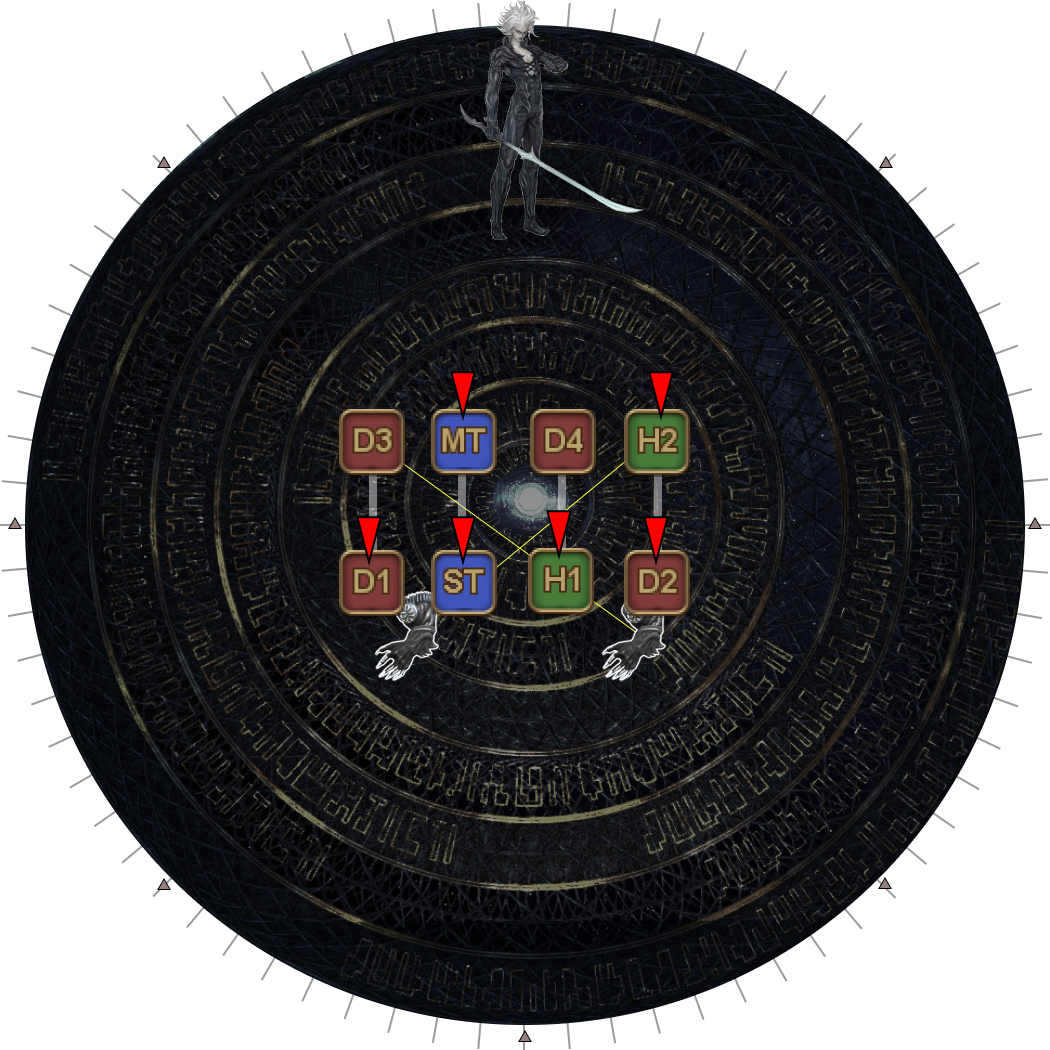
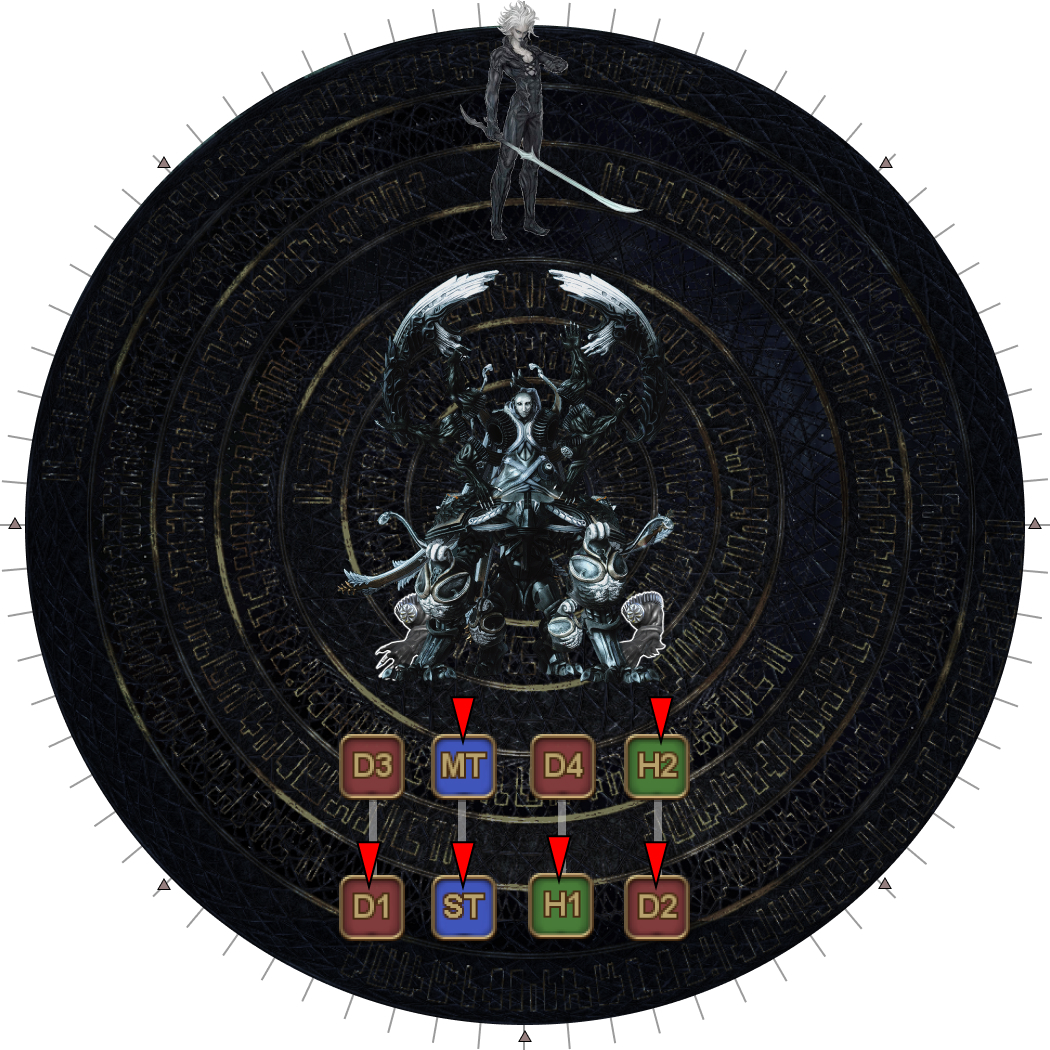
Simplify Sigma strat

Changed region(s): [[0.3048, 0.2438, 0.6705, 0.9143]]

diff --git a/ultimates/top/en/05_run_dynamis.md b/ultimates/top/en/05_run_dynamis.md
@@ -127,22 +127,20 @@ The first part is rather unusual, but it means that resolving the towers can be 
 
 <table>
   <tr>
-    <td width="50%"><p><b>1.</b> Two arms will spawn, followed by an Omega-M clone.</p>
-    <p><b>Use the Omega-M clone as North</b>. The two hands will always spawn south-west, and south-east.</p>
-    <p>Line up in two rows of four.</p><p>If your row has duplicate Playstation symbols, the <b>right-most</b> player swaps.</p><p><em>(Equivalently, if your tether is going to the left, swap groups.)</em></p><p><em>In this example, the ST and D3 will swap groups.</em></p></td>
-    <td><img src="../images/05_run_dynamis/run_dynamis_sigma_01.jpg"></td>
-  </tr>
-  <tr>
-    <td><p><b>2.</b> Arrange each row in order:</p><ul><li><b>Left:</b> 〇 > × > △ > □ <b>:Right</b></li></ul><p><em>(All tethers should now be vertical)</em></p></td>
+    <td width="50%"><p><b>1.</b> Two arms will spawn. Line up in two rows of four.</p>
+      <ul>
+        <li><b>Left:</b> 〇 > × > △ > □ <b>:Right</b></li>
+      </ul>
+      <p><em>(All tethers should be vertical)</em></p></td>
     <td><img src="../images/05_run_dynamis/run_dynamis_sigma_02.jpg"></td>
   </tr>
   <tr>
-    <td><p><b>3.</b> Six random players get marked, with each tether pair getting at least one marker.</p>
-    <p>If your pair only has one marker, swap if needed to have the <b>non-marker</b> player north (away from the hands).</p><p><em>(In this example, H1 and D4 swapped rows.)</em></p></td>
+    <td><p><b>2.</b> Six random players get marked, with each tether pair getting at least one marker.</p>
+    <p>If your pair only has one marker, swap if needed to have the <b>non-marker</b> player towards the hands.</p><p><em>(In this example, H1 and D4 swapped rows.)</em></p></td>
     <td><img src="../images/05_run_dynamis/run_dynamis_sigma_03.jpg"></td>
   </tr>
   <tr>
-    <td><p><b>4.</b> The top row takes up their positions at the edge of the arena.</p>
+    <td><p><b>3.</b> The top row takes up their positions at the edge of the arena.</p>
     <p><em>All these positions will be between two markers.</em></p>
     <ul>
       <li>The <b>left-most</b> player <b>without a marker</b> goes NNW.</li>
@@ -157,25 +155,26 @@ The first part is rather unusual, but it means that resolving the towers can be 
 With the top row in position, the bottom row now takes up their positions, depending on whether the debuff is Remote, or Mid Glitch.
 
 - The bottom row will **always** go to the opposite E/W side as their tether partner
-- The bottom row may share the same N/S half as their tether partner, depending on whether the party has Mid Glitch (same N/S) or Remote Glitch (opposite N/S).
+  - i.e: if you're in the left tether pair, you will go right (and vice versa).
+- The bottom row will go N/S, depending on whether the party has Mid or Remote Glitch.
 
 ### Remote Glitch
 
 <table>
   <tr>
-    <td width="50%"><p><b>5a.</b> The bottom row takes up their positions <b>opposite</b> their tether partner.</p><p><em>The players at the north side (at the WNW and ENE sectors) are far enough to resolve Remote Glitch, but not so far that they steal the tethers from the arms.</em></p></td>
+    <td width="50%"><p><b>4a.</b> The bottom row takes up their positions <b>opposite</b> their tether partner.</p><p><em>The players at the north side (at the WNW and ENE sectors) are far enough to resolve Remote Glitch, but not so far that they steal the tethers from the arms.</em></p></td>
     <td><img src="../images/05_run_dynamis/run_dynamis_sigma_05a.jpg"></td>
   </tr>
   <tr>
-    <td><p><b>6a.</b> Lasers and Wave Cannons resolve.</p></td>
+    <td><p><b>5a.</b> Lasers and Wave Cannons resolve.</p></td>
     <td><img src="../images/05_run_dynamis/run_dynamis_sigma_06a.jpg"></td>
   </tr>
   <tr>
-    <td><p><b>7a.</b> Move into the center as Omega-F will teleport into the middle and knockback all players into their towers.</p></td>
+    <td><p><b>6a.</b> Move into the center as Omega-F will teleport into the middle and knockback all players into their towers.</p></td>
     <td><img src="../images/05_run_dynamis/run_dynamis_sigma_07a.jpg"></td>
   </tr>
   <tr>
-    <td><p><b>8a.</b> The tower rules are as such:</p><ol><li>Get knocked back to the <b>nearest</b> tower from you.</li><li>If there are two towers next to you, choose the tower that requires two players (these will be the two towers closest to the N/S poles).</li></ol></td>
+    <td><p><b>7a.</b> The tower rules are as such:</p><ol><li>Get knocked back to the <b>nearest</b> tower from you.</li><li>If there are two towers next to you, choose the tower that requires two players (these will be the two towers closest to the N/S poles).</li></ol></td>
     <td><img src="../images/05_run_dynamis/run_dynamis_sigma_08a.jpg"><img src="../images/05_run_dynamis/run_dynamis_sigma_09a.jpg"></td>
   </tr>
 </table>
@@ -184,19 +183,19 @@ With the top row in position, the bottom row now takes up their positions, depen
 
 <table>
   <tr>
-    <td width="50%"><p><b>5b.</b> The bottom row takes up their positions on the same north/southern half of the arena, across from their tether partner. The tethers should look criss-crossed.</p><p><em>These player will need to move in and out as needed to satisfy the Mid Glitch requirements (about two rings in from the edge)</em></p></td>
+    <td width="50%"><p><b>4b.</b> The bottom row takes up their positions on the same north/southern half of the arena, across from their tether partner. The tethers should look criss-crossed.</p><p><em>These player will need to move in and out as needed to satisfy the Mid Glitch requirements (about two rings in from the edge)</em></p></td>
     <td><img src="../images/05_run_dynamis/run_dynamis_sigma_05b.jpg"></td>
   </tr>
   <tr>
-    <td><p><b>6b.</b> Lasers and Wave Cannons resolve.</p></td>
+    <td><p><b>5b.</b> Lasers and Wave Cannons resolve.</p></td>
     <td><img src="../images/05_run_dynamis/run_dynamis_sigma_06b.jpg"></td>
   </tr>
   <tr>
-    <td><p><b>7b.</b> Move into the center as Omega-F will teleport into the middle and knockback all players into their towers.</p></td>
+    <td><p><b>6b.</b> Move into the center as Omega-F will teleport into the middle and knockback all players into their towers.</p></td>
     <td><img src="../images/05_run_dynamis/run_dynamis_sigma_07b.jpg"></td>
   </tr>
   <tr>
-    <td><p><b>8b.</b> The tower rules are as such:</p><ol><li>Get knocked back to the tower you came from.</li><li>If there is no tower at your position, take the tower <b>directly opposite</b>.</li></ol></td>
+    <td><p><b>7b.</b> The tower rules are as such:</p><ol><li>Get knocked back to the tower you came from.</li><li>If there is no tower at your position, take the tower <b>directly opposite</b>.</li></ol></td>
     <td><img src="../images/05_run_dynamis/run_dynamis_sigma_08b.jpg"><img src="../images/05_run_dynamis/run_dynamis_sigma_09b.jpg"></td>
   </tr>
 </table>
@@ -205,7 +204,7 @@ With the top row in position, the bottom row now takes up their positions, depen
 
 <table>
   <tr>
-    <td width="50%"><p><b>9.</b> Omega-F will spawn opposite two Right Arm Units and Omega's Rear Power Unit in the center.</p><p>Use Omega-F as North, and note whether Omega-F is in her blade-legs stance or not.</p>
+    <td width="50%"><p><b>8.</b> Omega-F will spawn opposite two Right Arm Units and Omega's Rear Power Unit in the center.</p><p>Use Omega-F as North, and note whether Omega-F is in her blade-legs stance or not.</p>
     <p>The party needs to organise themselves into three groups:</p>
     <ul>
       <li>A group of three goes to Omega-F's side.
@@ -228,15 +227,15 @@ With the top row in position, the bottom row now takes up their positions, depen
     <td><img src="../images/05_run_dynamis/run_dynamis_sigma_10.jpg"></td>
   </tr>
   <tr>
-    <td><p><b>10.</b> The Rear Power Unit will start firing a straight-line AoE while slowly rotating.</p>Depending on whether Omega-F has her blade-legs or not, either wait and stay outside <b>or</b> follow the Rear Power Unit's AoE.<p></p></td>
+    <td><p><b>9.</b> The Rear Power Unit will start firing a straight-line AoE while slowly rotating.</p>Depending on whether Omega-F has her blade-legs or not, either wait and stay outside <b>or</b> follow the Rear Power Unit's AoE.<p></p></td>
     <td><img src="../images/05_run_dynamis/run_dynamis_sigma_11.jpg"></td>
   </tr>
   <tr>
-    <td><p><b>11.</b> After rotating and firing fourteen times, the Rear Power Unit will fire its last laser in this orientation.</p><p>Use this time to move into position to resolve Hello, World.</p></td>
+    <td><p><b>10.</b> After rotating and firing fourteen times, the Rear Power Unit will fire its last laser in this orientation.</p><p>Use this time to move into position to resolve Hello, World.</p></td>
     <td><img src="../images/05_run_dynamis/run_dynamis_sigma_12.jpg"></td>
   </tr>
   <tr>
-    <td><p><b>12.</b> Hello, World debuffs resolve along with the Right Arm Unit's lasers.</p><p>Done correctly:</p><ul><li>Four players will have one stack of Dynamis</li><li>The other four players will have two stacks of Dynamis.</li></ul></td>
+    <td><p><b>11.</b> Hello, World debuffs resolve along with the Right Arm Unit's lasers.</p><p>Done correctly:</p><ul><li>Four players will have one stack of Dynamis</li><li>The other four players will have two stacks of Dynamis.</li></ul></td>
     <td><img src="../images/05_run_dynamis/run_dynamis_sigma_13.jpg"></td>
   </tr>
 </table>
@@ -269,7 +268,7 @@ With the top row in position, the bottom row now takes up their positions, depen
 </table>
 
 <div style="background-color: #002 ; padding: 10px; border: 1px solid;">
-<details markdown=block>
+<details markdown="block">
 <summary><b>[Click to Expand] Safe spots</b></summary>
 <table>
   <tr>

diff --git a/ultimates/top/en/03_omega_reconfigured.md b/ultimates/top/en/03_omega_reconfigured.md
@@ -50,7 +50,7 @@ This is the only phase in the fight with a transitional mechanic.
     <td><img src="../images/03_omega_reconfigured/transition_08.jpg"></td>
   </tr>
   <tr>
-    <td><p><b>9.</b> Third pulse of the second wave goes off.</p><p>The first set of arms explode, while the second set of arms telegraph their explosion.</p><p><b>Move into the intersection of the expanding pulse and the first set of AoE</b> so you do not get hit by the second set of arms.</b></p></td>
+    <td><p><b>9.</b> Third pulse of the second wave goes off.</p><p>The first set of arms explode, while the second set of arms telegraph their explosion.</p><p><b>Move into the intersection of the expanding pulse and the first set of AoE</b> so you do not get hit by the second set of arms.</p></td>
     <td><img src="../images/03_omega_reconfigured/transition_09.jpg"></td>
   </tr>
   <tr>
